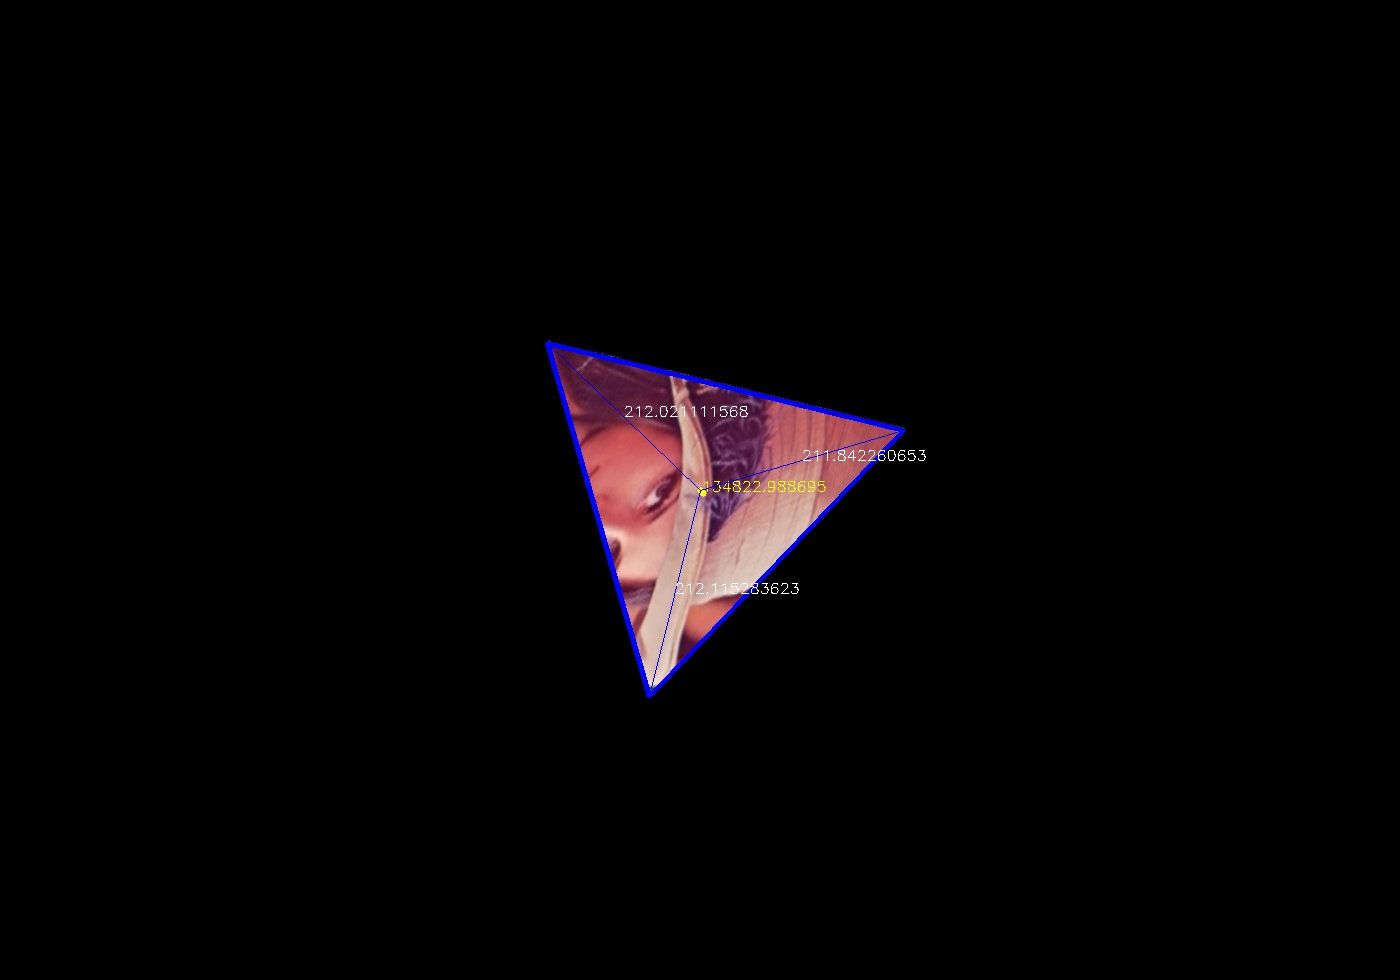
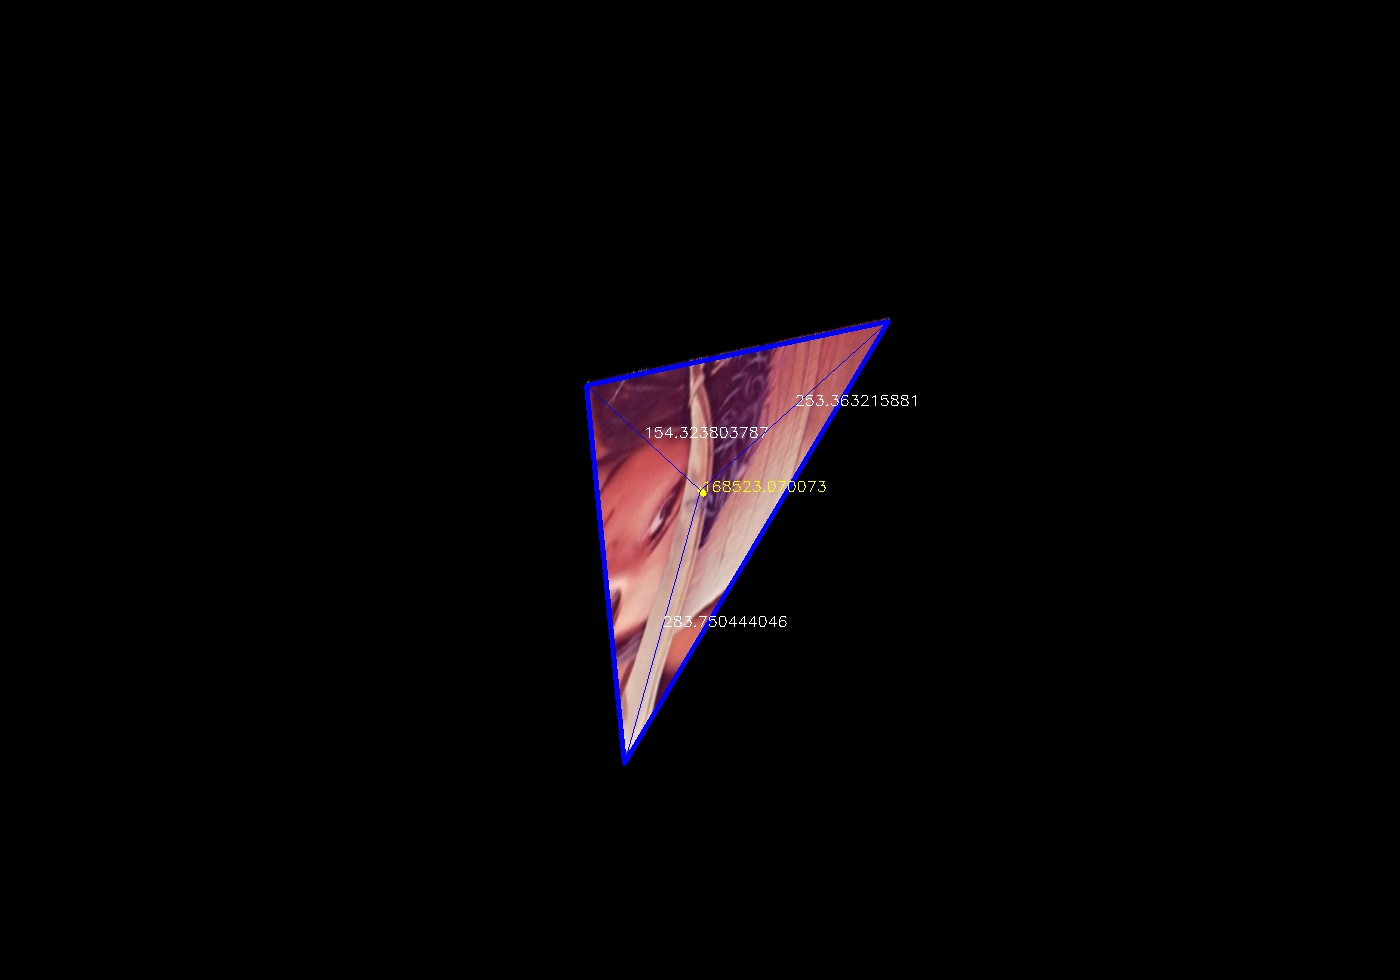
some work on newtons method stuff

Changed region(s): [[0.3686, 0.3061, 0.645, 0.7959]]

diff --git a/testForTheGetMinimum.py b/testForTheGetMinimum.py
@@ -4,7 +4,7 @@ import getMinimumScaleForShape as g
 import shapeDrawerWithDebug as d
 import basicImageOperations as BIO
 import basicShapeOperations as BSO
-
+import itertools
 
 
 #######################################################################
@@ -72,13 +72,37 @@ def newTest():
 	cv2.waitKey(0)
 	cv2.destroyAllWindows()
 
-def getTheFragment(imgName):
+def fromPointsToFramenets_justTriangles(points):
+	ret = []
+	x = itertools.combinations(points, 3)
+	for i in x:
+		ret.append(i)
+	return ret
+
+def getAllTheFragments_justPoints(imgName):
 	img = cv2.imread("./"+imgName+".jpg")
-	shape = BIO.getThePositionOfGreenPoints(img)
+	points = BIO.getThePositionOfGreenPoints(img)
+	frags = fromPointsToFramenets_justTriangles(points)
+	return frags
+
+def getTheFragment(imgName):
+	############just take the first frag
+	ret = getAllTheFragments_justPoints(imgName)
+	print "ret"
+	print ret
+
+	tempShape = ret[0]
+	shape = []
+	for p in tempShape:
+		shape.append(p)
+	####################################
+
+	img = cv2.imread("./"+imgName+".jpg")
 	c_point = BSO.getCenterPointOfShape(shape)
 	ret = BIO.moveImageToPoint(img, c_point[0], c_point[1])
-	shape = BIO.getThePositionOfGreenPoints(ret)
-	return shape, BIO.cutAShapeWithImageCoords(shape, ret)
+	h, w, c = ret.shape
+	newShape = BSO.centerShapeUsingPoint(shape, (w/2, h/2))
+	return shape, BIO.cutAShapeWithImageCoords(newShape, ret)
 
 def getMinXInShape(shape):
 	ret = shape[0][0]
@@ -131,11 +155,22 @@ def expandShapeToTakeUpAllImage(shape, img):
 	return shape, cv2.resize(retImg, (1000,1000))
 
 
-def newTest2(imgName):
+###THIS FUNCTION WON'T WORK ANYMORE, NOT WITH THE NEW FRAG STUFF
+def drawOrgFrag(imgName):
 	##########draw the frag with lines########
 	shape, ret = getTheFragment(imgName)
 	orginalFrag = d.drawShapeWithAllTheDistances_withBaseImage(ret, shape, (255,0,0))
 	cv2.imwrite("./orginalFrag_"+imgName+".jpg", orginalFrag)
+	##########################################
+
+#the shape should be coords in the image (100,100) -> (600,800)
+def doNewTest2ForAFragement(shape, img):
+	pass
+
+def newTest2(imgName):
+
+	##########draw the frag with lines########
+	drawOrgFrag(imgName)
 	##########################################
 		
 	###########draw the new frag############# 
@@ -143,6 +178,7 @@ def newTest2(imgName):
 	shape, ret = getTheFragment(imgName)
 	angle, scalar = g.getValuesToNormaliseScale(shape)
 	#angle, scalar = 1, 1
+	print "the chosen angle: " + str(angle) + " and scalar: "+str(scalar)
 	resShape = BSO.scaleAndRotateShape(shape, angle, scalar)
 	ret = BIO.rotateAndScaleByNumbers(ret, angle, scalar)
 
@@ -163,6 +199,11 @@ def newTest2(imgName):
 	######################################### 	
 
 
+def testingGettingTheLocalMinimum():
+	pass
+
 newTest2("extreme")
 newTest2("testImage1")
 newTest2("testImage2")
+
+newTest2("lennaWithMoreGreenDots")

diff --git a/scaleStuff.py b/scaleStuff.py
@@ -483,36 +483,37 @@ def main(imgName):
 
 	shape = relativePoints_getThePositionOfGreenPoints(res)
 
-	centerPnt = centeroidnp(np.asarray(getThePositionOfGreenPoints(res)))
-	res = movePointToMiddle(image, centerPnt[0], centerPnt[1])
+	for shape in fragments:
+		centerPnt = centeroidnp(np.asarray(getThePositionOfGreenPoints(res)))
+		res = movePointToMiddle(image, centerPnt[0], centerPnt[1])
 
-	shape = relativePoints_getThePositionOfGreenPoints(res)
-	res = cutAShapeOut(shape, res)
+		shape = relativePoints_getThePositionOfGreenPoints(res)
+		res = cutAShapeOut(shape, res)
 
-	cv2.imshow("imgShape", res)
+		cv2.imshow("imgShape", res)
 
 
-	#now normalise it
+		#now normalise it
 
-	angle, scalar = getLeast(shape)
-	print "angle, scalar"
-	print str(angle) + ", " + str(scalar)
+		angle, scalar = getLeast(shape)
+		print "angle, scalar"
+		print str(angle) + ", " + str(scalar)
 
-	res = rotateAndScaleByNumbers(angle, scalar, res)
+		res = rotateAndScaleByNumbers(angle, scalar, res)
 
-	resBAW = cv2.cvtColor(res, cv2.COLOR_BGR2GRAY)
-	minRot = getMinimumRotation(resBAW)
+		resBAW = cv2.cvtColor(res, cv2.COLOR_BGR2GRAY)
+		minRot = getMinimumRotation(resBAW)
 
-	print "minRot"
-	print minRot
+		print "minRot"
+		print minRot
 
-	res = rotateImg(res, minRot)
-	#res = removeBlk(res)
-	#cv2.imshow("imgFixed", res)
-	cv2.imwrite("./Output"+name+"Output.jpg", res)
-	res = rotateImg(res, 180)
+		res = rotateImg(res, minRot)
+		#res = removeBlk(res)
+		#cv2.imshow("imgFixed", res)
+		cv2.imwrite("./Output"+name+"Output.jpg", res)
+		res = rotateImg(res, 180)
 
-	cv2.destroyAllWindows()
+		cv2.destroyAllWindows()
 
 
 ######################################################################

diff --git a/getMinimumScaleForShape.py b/getMinimumScaleForShape.py
@@ -4,6 +4,8 @@ import numpy as np
 from scipy.signal import argrelextrema
 import basicShapeOperations as BSO
 import cv2
+from scipy.optimize import minimize, rosen, rosen_der
+from scipy import optimize
 
 def getPTheorm(point):
 	sumOfSqr = (point[0]**2)+(point[1]**2)
@@ -123,11 +125,18 @@ def scaleInDirection(shape, angle, scale):
 	return ret
 
 def calcDiffSquaredOfEveryPoint(shape, angle, scale):
-
+	if(scale < 0):
+		scale = scale*-1
+	
 	newShape = scaleInDirection(shape, angle, scale)
 	totalDiff = getTotalDiffSquaredOfPoints(newShape)
 	#totalDiff += getTotalDiffSquaredOfAngles(newShape)
 	return totalDiff
+
+def f(variables, params):
+	shape = params
+	angle, scale = variables
+	return calcDiffSquaredOfEveryPoint(shape, angle, scale)
 
 def frange(x, y, jump):
   while x < y:
@@ -149,13 +158,22 @@ def getAllRotationAndScaleValuesForShape_withOrder(shape):
 	return vals
 
 ########## public
-def getValuesToNormaliseScale(shape):
+def getValuesToNormaliseScale1(shape):
 	finalShape = BSO.centerShapeUsingPoint(shape, (0,0))
 	vals = getAllRotationAndScaleValuesForShape_withOrder(finalShape)
 	for i in range(10):
 		print vals[i]
 	#return the local minimum
 	return (vals[0][2][1], vals[0][1][1])
+
+def getValuesToNormaliseScale(shape):
+	minimizer_kwargs = {"args": shape}
+	val = optimize.basinhopping(f, [1,1], minimizer_kwargs=minimizer_kwargs)
+	print val
+	scale = val['x'][1]
+	if scale < 0:
+		scale = scale*-1
+	return val['x'][0], scale 
 
 ##################################################################
 

diff --git a/basicImageOperations.py b/basicImageOperations.py
@@ -2,6 +2,21 @@ import numpy as np
 import cv2
 import math 
 
+def getTheGreenPointsImage_easy(img):
+	res = img
+	b, g, r = cv2.split(res)
+	res = g
+	junk,g2mask = cv2.threshold(g,160,255,cv2.THRESH_BINARY)
+	junk,bImask = cv2.threshold(b,130,255,cv2.THRESH_BINARY)
+	bImask = cv2.bitwise_not(bImask)
+	junk,rImask = cv2.threshold(r,130,255,cv2.THRESH_BINARY)
+	rImask = cv2.bitwise_not(rImask)
+	temp = cv2.bitwise_and(bImask, rImask)
+	temp = cv2.bitwise_and(temp, g2mask)
+	return temp
+
+
+
 def getTheGreenPointsImage(img):
 	res = img
 	b, g, r = cv2.split(res)
